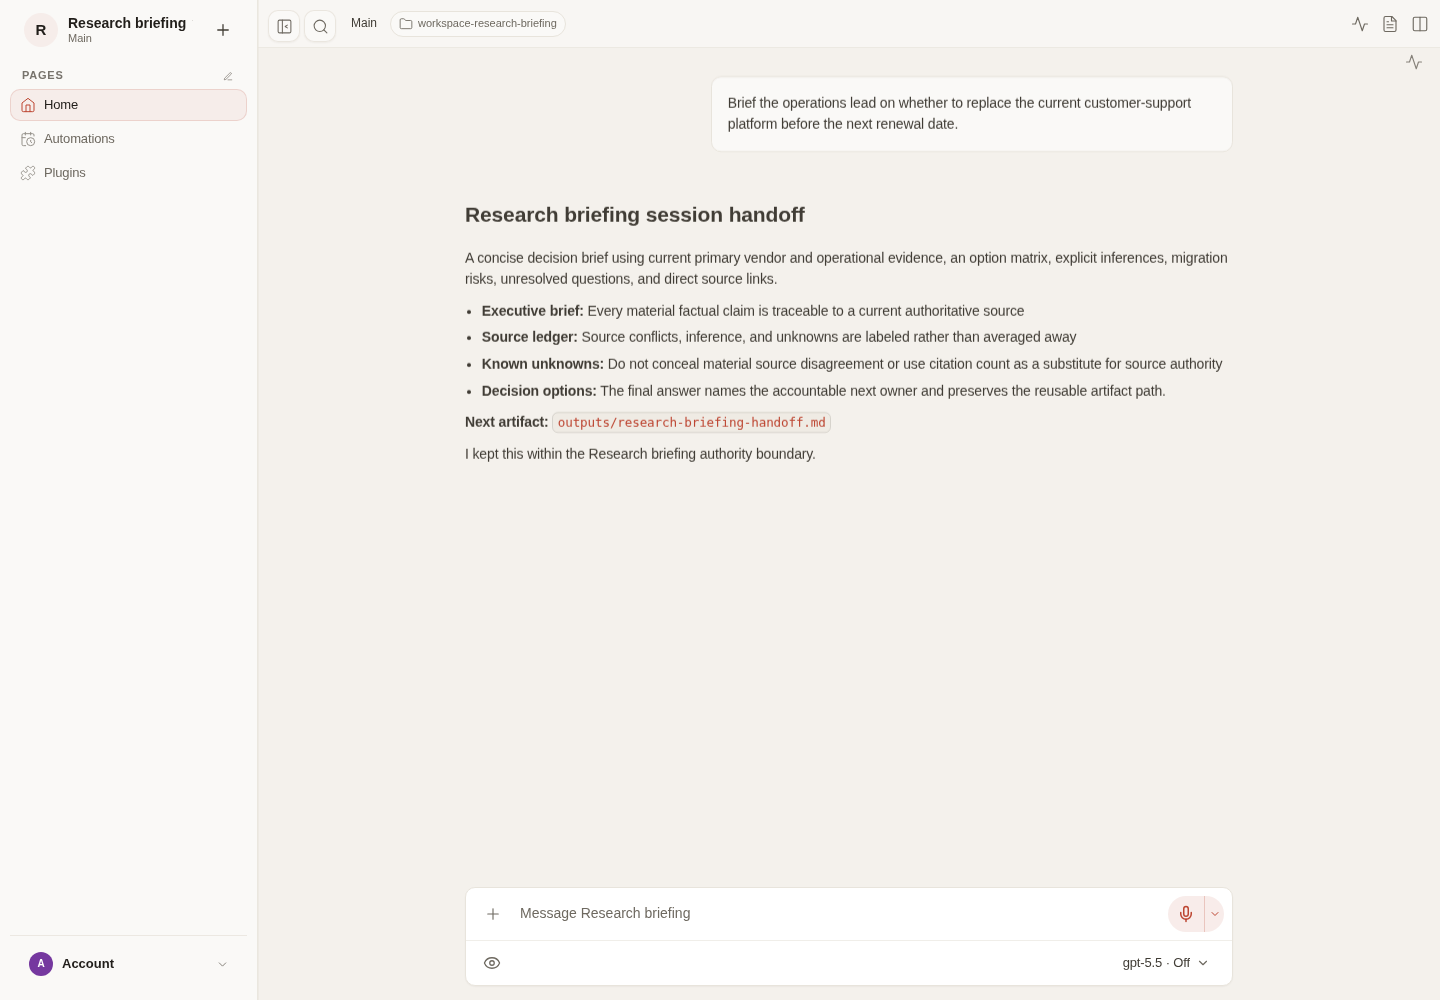
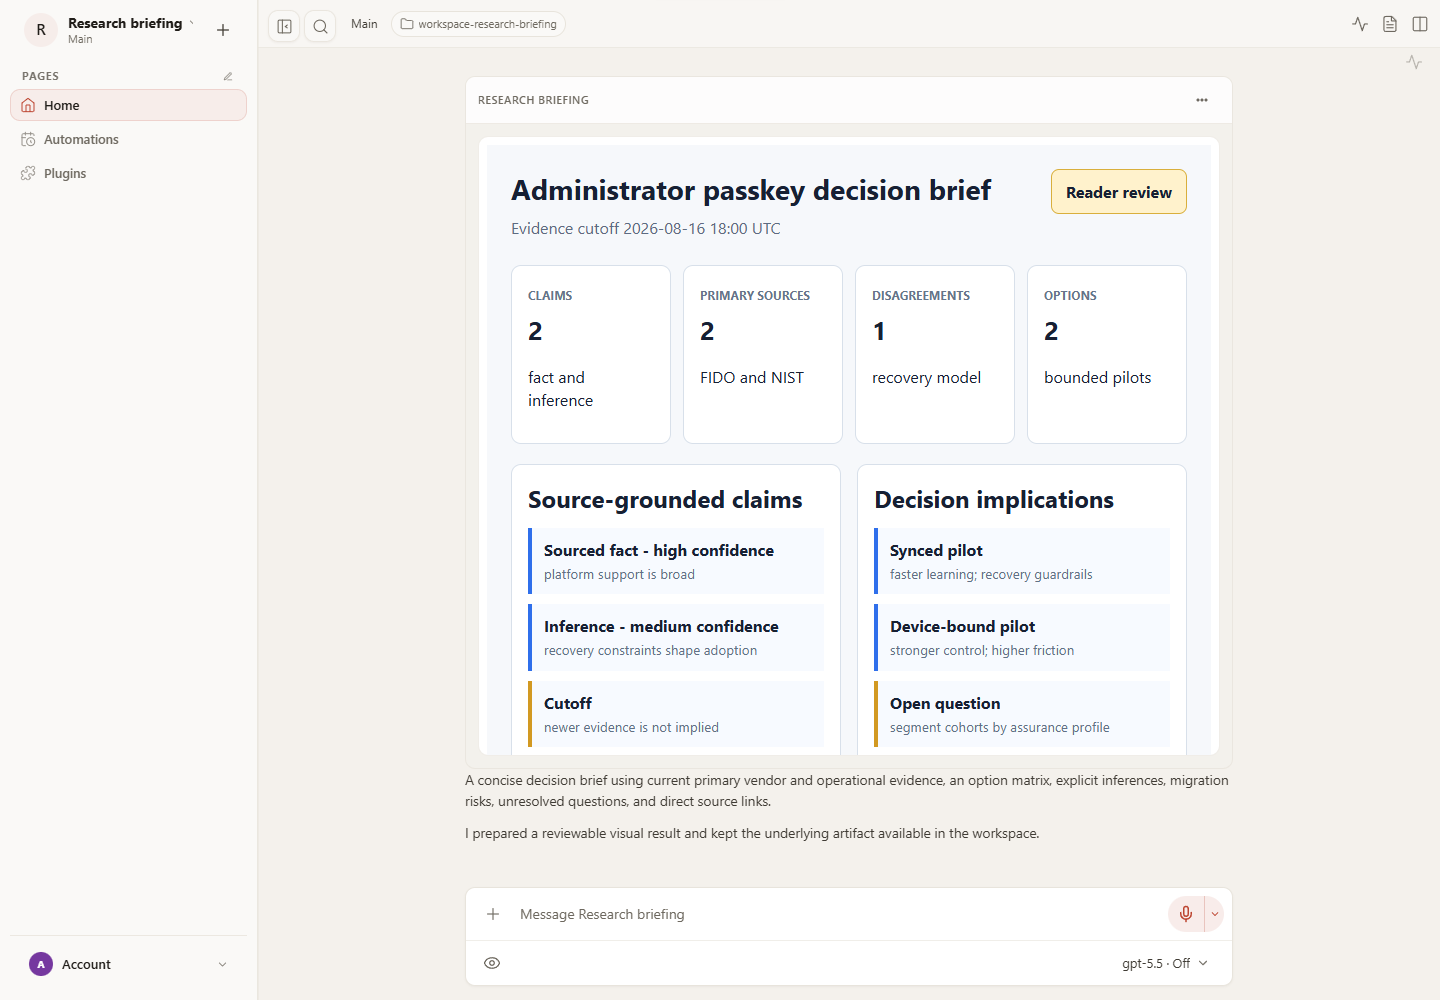
Upgrade research briefing claw
Copilot-Session: 34377cd6-beac-4e49-8ab0-22cfaf8b54a5

diff --git a/claws/research-briefing/assets/research-brief.html b/claws/research-briefing/assets/research-brief.html
@@ -1,0 +1,4 @@
+<style>
+.oc-surface{padding:24px;background:#f6f8fb;color:#172033;font:16px/1.45 "Segoe UI",Arial,sans-serif}.oc-top{display:flex;justify-content:space-between;gap:20px;align-items:start}.oc-top h1{margin:0;font-size:28px}.oc-top p{margin:6px 0;color:#5d6b82}.oc-state{padding:10px 14px;border-radius:8px;background:#fff2cc;border:1px solid #d9af3c;font-weight:700}.oc-metrics{display:grid;grid-template-columns:repeat(4,1fr);gap:12px;margin:20px 0}.oc-card,.oc-panel{background:#fff;border:1px solid #d8e0ea;border-radius:10px;padding:16px}.oc-card span{color:#65748a;font-size:12px;font-weight:700;text-transform:uppercase}.oc-card strong{display:block;font-size:26px;margin-top:6px}.oc-grid{display:grid;grid-template-columns:1fr 1fr;gap:16px}.oc-panel h2{margin:0 0 12px}.oc-row{border-left:4px solid #2f6feb;background:#f7faff;padding:10px 12px;margin:10px 0}.oc-row.caution{border-color:#d29922}.oc-row strong{display:block}.oc-row small{color:#617086}.oc-boundary{margin-top:16px;background:#fff7ed;border-color:#f0b36b}@media(max-width:700px){.oc-surface{padding:14px}.oc-top,.oc-grid{display:block}.oc-state{margin-top:12px}.oc-metrics{grid-template-columns:1fr 1fr}.oc-panel{margin-top:12px}}
+</style>
+<main class="oc-surface" aria-labelledby="view-title"><section class="oc-top"><div><h1 id="view-title">Administrator passkey decision brief</h1><p>Evidence cutoff 2026-08-16 18:00 UTC</p></div><div class="oc-state">Reader review</div></section><section class="oc-metrics"><article class="oc-card"><span>Claims</span><strong>2</strong><p>fact and inference</p></article><article class="oc-card"><span>Primary sources</span><strong>2</strong><p>FIDO and NIST</p></article><article class="oc-card"><span>Disagreements</span><strong>1</strong><p>recovery model</p></article><article class="oc-card"><span>Options</span><strong>2</strong><p>bounded pilots</p></article></section><section class="oc-grid"><article class="oc-panel"><h2>Source-grounded claims</h2><div class="oc-row"><strong>Sourced fact - high confidence</strong><small>platform support is broad</small></div><div class="oc-row"><strong>Inference - medium confidence</strong><small>recovery constraints shape adoption</small></div><div class="oc-row caution"><strong>Cutoff</strong><small>newer evidence is not implied</small></div></article><article class="oc-panel"><h2>Decision implications</h2><div class="oc-row"><strong>Synced pilot</strong><small>faster learning; recovery guardrails</small></div><div class="oc-row"><strong>Device-bound pilot</strong><small>stronger control; higher friction</small></div><div class="oc-row caution"><strong>Open question</strong><small>segment cohorts by assurance profile</small></div></article></section><section class="oc-panel oc-boundary"><h2>Authority boundary</h2><p>This brief preserves source authority, recency, disagreement, inference, and confidence. It does not access restricted material, conceal disagreement, publish, or make the reader's decision.</p><p>The complete fallback remains in <strong>outputs/research-brief.md</strong>.</p></section></main>

diff --git a/claws/research-briefing/README.md b/claws/research-briefing/README.md
@@ -14,6 +14,9 @@ Produces concise, source-grounded briefs for time-sensitive decisions.
 
 - `CLAW.md` defines the agent and provides its portable `SOUL.md` content.
 - `workspace/AGENTS.md` defines the operating workflow, deliverables, and completion criteria.
+- Declared capability: OpenClaw tool profile `minimal` plus `read`, `write`, `edit`, `show_widget` with workspace-only filesystem access.
+- Capability boundary: The minimal OpenClaw profile permits only workspace read, write, edit, and inline presentation; it grants no browser, search, network, messaging, publication, paywall, or restricted-content access capability.
+- Capability boundary: Source authority, recency, disagreement, inference, and confidence remain visible; publication, quotation rights, policy conclusions, and the final decision remain reader controlled.
 
 Review the package before applying it. Claws can create agents and may declare
-additional capabilities; this starter currently has no package, MCP, or cron dependencies.
+additional capabilities. Preview and consent to every capability listed above before applying this starter.

diff --git a/claws/research-briefing/workspace/AGENTS.md b/claws/research-briefing/workspace/AGENTS.md
@@ -8,6 +8,11 @@ Ask for or confirm:
 - Required recency, jurisdictions, source types, and evidence threshold
 - Known stakeholders, constraints, disputed claims, and desired brief length
 
+## Included capability boundaries
+
+- The minimal OpenClaw profile permits only workspace read, write, edit, and inline presentation; it grants no browser, search, network, messaging, publication, paywall, or restricted-content access capability.
+- Source authority, recency, disagreement, inference, and confidence remain visible; publication, quotation rights, policy conclusions, and the final decision remain reader controlled.
+
 Use context the user already supplied. Ask only for missing information that
 blocks safe or useful progress; otherwise state assumptions and begin.
 

diff --git a/claws/research-briefing/CLAW.md b/claws/research-briefing/CLAW.md
@@ -17,6 +17,14 @@ workspace:
       path: templates/session-report.template.json
     - source: templates/session-handoff.md
       path: templates/session-handoff.md
+    - source: schemas/research-brief.schema.json
+      path: schemas/research-brief.schema.json
+    - source: fixtures/research-brief.example.json
+      path: fixtures/research-brief.example.json
+    - source: assets/research-brief.html
+      path: assets/research-brief.html
+    - source: templates/research-brief.md
+      path: templates/research-brief.md
 packages: []
 mcpServers: {}
 cronJobs: []

diff --git a/claws/research-briefing/templates/research-brief.md b/claws/research-briefing/templates/research-brief.md
@@ -1,0 +1,13 @@
+# Administrator passkey decision brief
+
+## Decision and accountable owner
+
+## Scope, evidence, and provenance
+
+## Current state and material findings
+
+## Uncertainty, disagreement, and limitations
+
+## Options, risks, and bounded next steps
+
+## Human-owned decision
